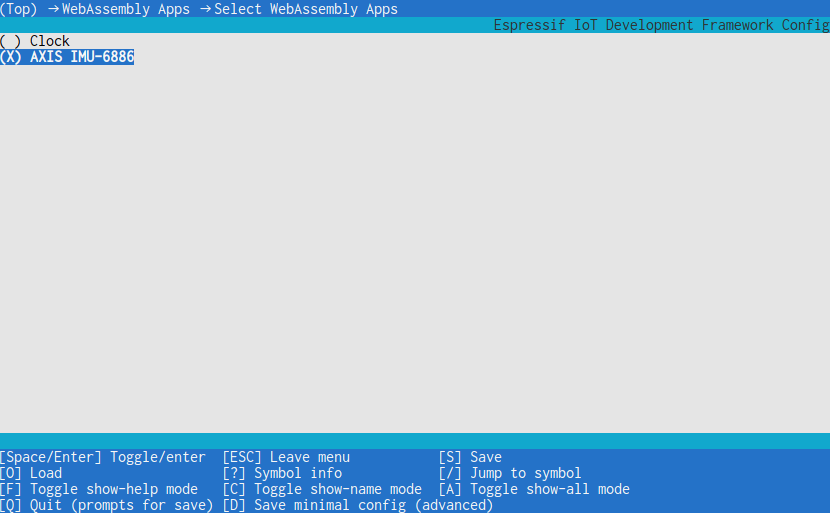
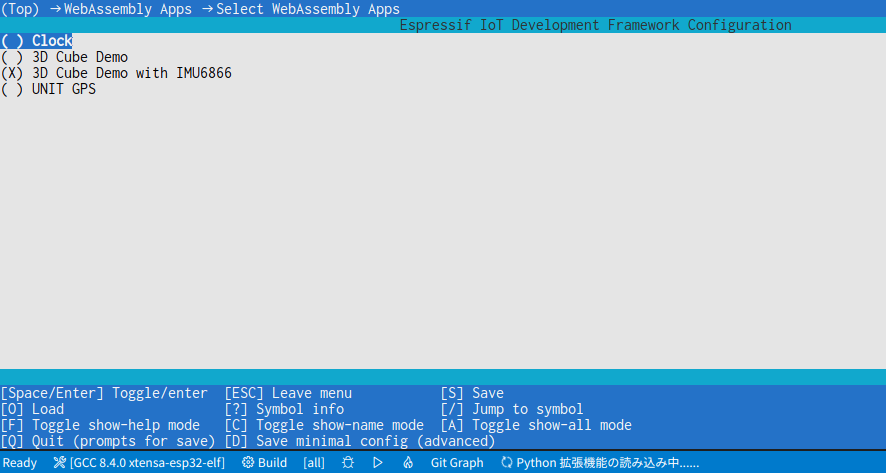
update README

Changed region(s): [[0.0, 0.7696, 1.0, 1.0], [0.0, 0.0, 1.0, 0.2072]]

diff --git a/README.md b/README.md
@@ -103,8 +103,6 @@ idf.py build flash monitor
 
 ![Wasm2](https://raw.githubusercontent.com/h1romas4/m5stack-core2-wasm3-as/main/docs/images/m5stack-core2-04.jpg)
 
-NOTE: Connection to IMU sensor is not yet implemented.
-
 ### Setup WiFi (Optional)
 
 1. Change WiFi Setting
